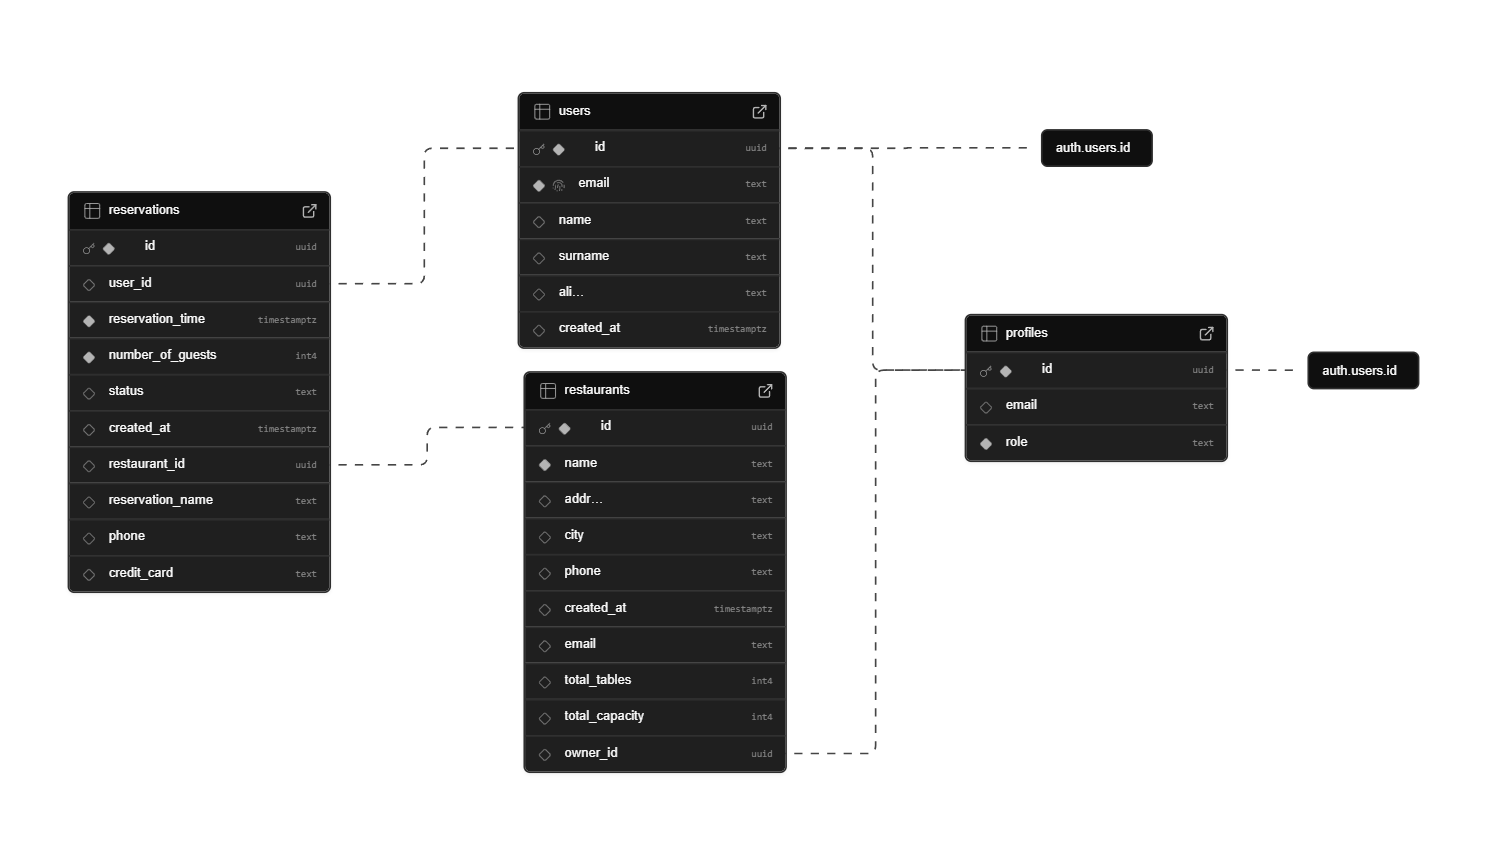
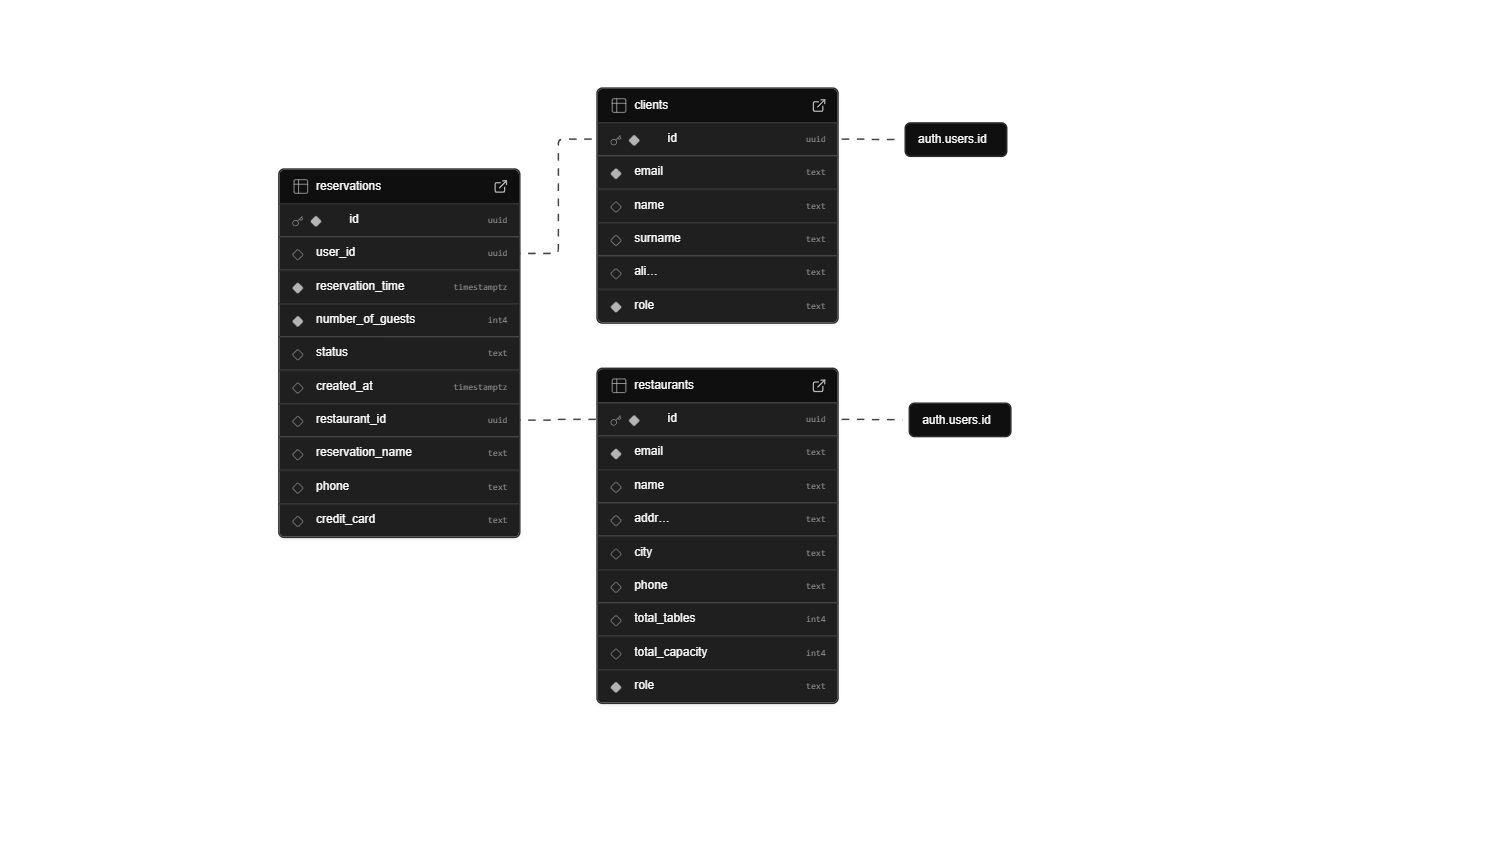
First modification of server

Changed region(s): [[0.0309, 0.0936, 0.8352, 0.9052], [0.8662, 0.4058, 0.959, 0.4682]]

diff --git a/backend/server.js b/backend/server.js
@@ -14,8 +14,7 @@ app.post('/register', async (req, res) => {
 
     const userId = data.user?.id;
     if (userId) {
-        await supabase.from('profiles').insert([{ id: userId, email, role: 'cliente' }]);
-        await supabase.from('users').insert([{ id: userId, email, name, surname, alias }]);
+        await supabase.from('clients').insert([{ id: userId, email, name, surname, alias }]);
     }
     res.json({ success: true });
 });
@@ -28,10 +27,7 @@ app.post('/register-restaurant', async (req, res) => {
 
     const userId = data.user?.id;
     if (userId) {
-        await supabase.from('profiles').insert([{ id: userId, email, role: 'restaurante' }]);
-        await supabase.from('restaurants').insert([{
-            name, address, city, phone, email, owner_id: userId, total_tables, total_capacity
-        }]);
+        await supabase.from('restaurants').insert([{ id: userId, email, name, address, city, phone, total_tables, total_capacity }]);
     }
     res.json({ success: true });
 });
@@ -81,7 +77,7 @@ app.get('/my-restaurant', async (req, res) => {
     const { data: restaurantes, error } = await supabase
         .from('restaurants')
         .select('*')
-        .eq('owner_id', user.id);
+        .eq('id', user.id)
 
     if (error || !restaurantes || restaurantes.length === 0) {
         return res.status(404).json({ error: 'No tienes restaurante asociado' });
@@ -95,7 +91,7 @@ app.get('/restaurants/:id/reservations', async (req, res) => {
     const now = new Date().toISOString();
     const { data, error } = await supabase
         .from('reservations')
-        .select('*, users(name, email)')
+        .select('*, clients(name, email)')
         .eq('restaurant_id', id)
         .gte('reservation_time', now)
         .order('reservation_time', { ascending: true });
